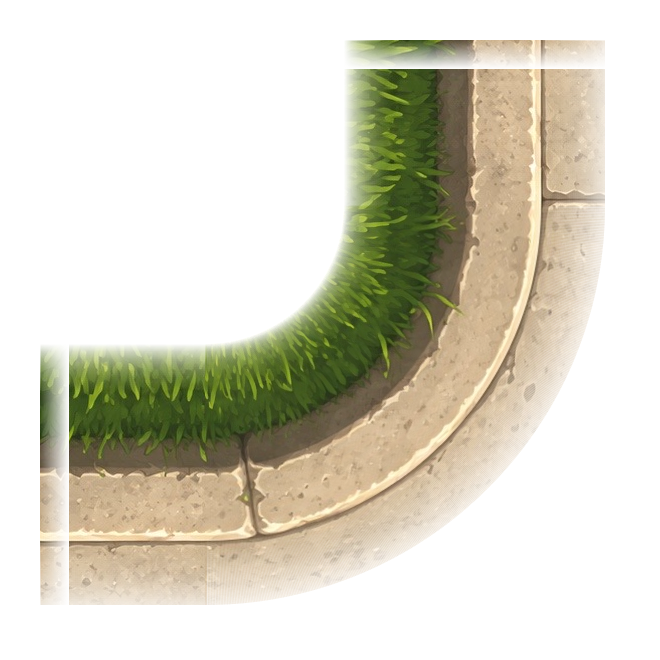
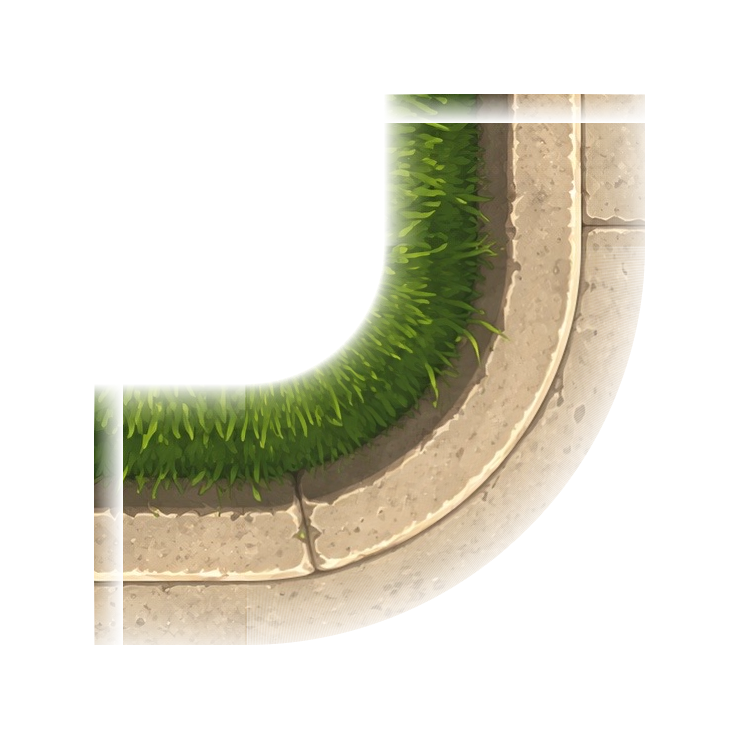
Corner sprites: curb-only (no sidewalk/road fill bleed)
The road corner sprite was painting its own sidewalk terrazzo (brighter
than the world sidewalk tile) and bleeding its road side onto the asphalt,
so the corner read as a bright rectangular patch that didn't match the
surrounding tiles. Crop the strip to just the concrete curb lip (+its
contact shadow) before stroking, so the corner carries ONLY the curb and
the real world tiles show through on both sides — no bright patch, no
street bleed. Radius is now taken from the original strip scale so the
crop doesn't tighten the bend. Grass corner left as-is (green-on-green
matches, and the overhanging blades are worth keeping).

Claude-Session: https://claude.ai/code/session_01MzT91WcyqemncboiCffQLx

diff --git a/src/game/renderer.ts b/src/game/renderer.ts
@@ -1487,10 +1487,14 @@ export class HollywoodRenderer {
     const vR = vx + this.cssW / this.cam.zoom;
     const mouth: Array<[number, number]> = [[ROAD_TOP - 2, ROAD_BOTTOM + 2]]; // road curb: open at blvd
     const grassOnly: Array<[number, number]> = [[0, SOUTH_SIDEWALK_BOTTOM]]; // grass curb: yards only
-    const RE = 0.663; // road-corner elbow fraction (stroked bake)
-    const RC = 115; // road-corner world size (band matches the 46u straight)
-    const GE = 0.688; // grass-corner elbow fraction
-    const GC = 130; // grass-corner world size (band matches the 54u straight)
+    // Corner geometry comes from bake_stroke.js. The road corner is baked CURB-ONLY (the strip is
+    // cropped to just the concrete lip before stroking) so it never paints the flanking sidewalk/road
+    // — the world tiles show through on both sides, no bright patch, no street bleed. Elbow fraction +
+    // world size (curb radius ≈ 41u either way) are read straight from the bake output.
+    const RE = 0.838; // road-corner elbow fraction
+    const RC = 87; // road-corner world size
+    const GE = 0.655; // grass-corner elbow fraction
+    const GC = 148; // grass-corner world size
     for (const cs of CROSS_STREETS) {
       if (cs.x + CS_HALF < vx - 20 || cs.x - CS_HALF > vR + 20) continue;
       // vertical road curbs (road EAST of the west seam, WEST of the east seam), open at the blvd
